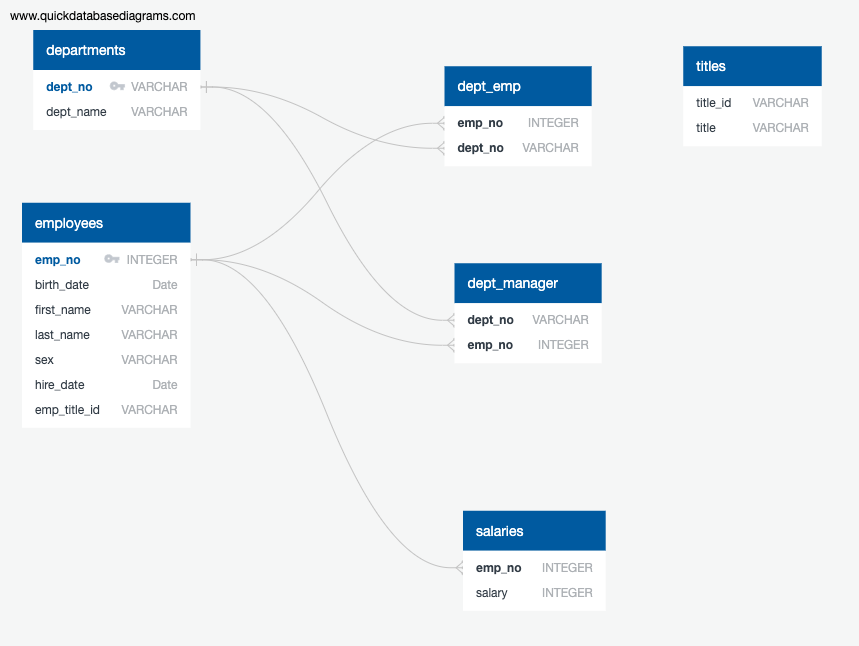
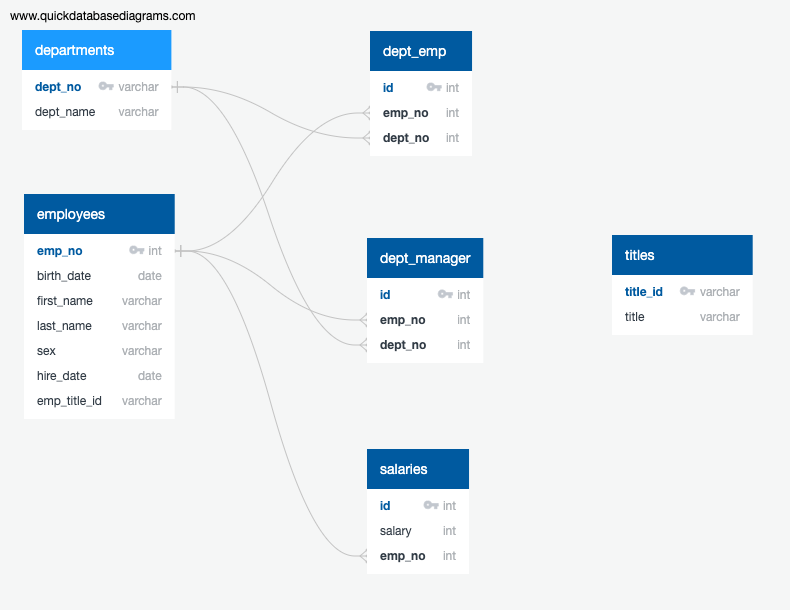
fixed ERD

diff --git a/README.md b/README.md
@@ -4,7 +4,7 @@
 For the first step, I looked at the CSV files and created an ERD to sketch out the relationship between my different CSV files.
 
 #### ERD
-![ERD](https://user-images.githubusercontent.com/69160361/98862982-f69f7500-2424-11eb-8111-aa66622d2bdd.png)
+![ERD](https://user-images.githubusercontent.com/69160361/103425038-f1c98880-4b6c-11eb-8668-4dc2564f404e.png)
 
 ### 2) Data Engineering
  A table schema was created for each of the six CSV files. These schemas were created with the same file/column names as the CSVs to make importing simple. This schema can be found in the 'schema.sql' file.
